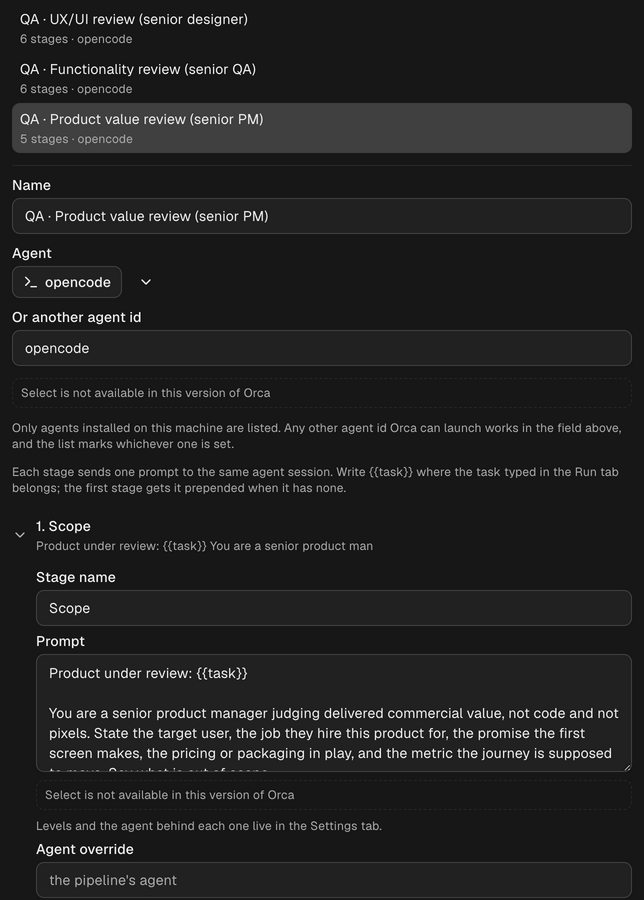
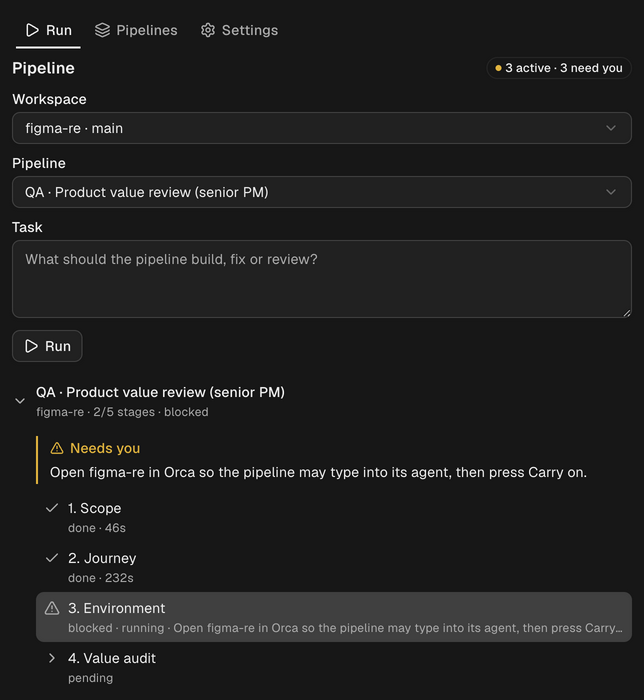
0.11.3: the pipeline editor shows the selected pipeline
Opening the Pipelines tab now draws the selected pipeline's stages instead of a
bare list, and Cancel means 'list only'. That also gives plugin check a scenario
that renders the editor, so a refused control (the empty Select value that broke
0.11.1) is reported in CI instead of the sidebar.

Changed region(s): [[0.0, 0.42, 0.9938, 0.99], [0.0, 0.0, 0.9938, 0.39], [0.9317, 0.27, 0.9627, 0.3]]

diff --git a/src/panel.tsx b/src/panel.tsx
@@ -66,7 +66,7 @@ const levels = atom<Record<Reasoning, { agent: string; model: string }>>({
 })
 const task = atom('task', '')
 const tab = atom('tab', 'run', { persist: 'plugin' })
-const editing = atom<Pipeline | null>(null)
+const editing = atom<Pipeline | null | 'closed'>(null)
 const notice = atom<string | null>(null)
 const busy = atom(false)
 /** The Settings tab's fields, as strings until saved. */
@@ -234,7 +234,7 @@ function newPipeline(): void {
 
 function editStage(index: number, patch: Partial<Stage>): void {
   const draft = read(editing)
-  if (!draft) return
+  if (!draft || draft === 'closed') return
   set(editing, {
     ...draft,
     stages: draft.stages.map((stage, at) => (at === index ? { ...stage, ...patch } : stage))
@@ -243,7 +243,7 @@ function editStage(index: number, patch: Partial<Stage>): void {
 
 function addStage(): void {
   const draft = read(editing)
-  if (!draft) return
+  if (!draft || draft === 'closed') return
   const at = draft.stages.length + 1
   set(editing, {
     ...draft,
@@ -256,14 +256,14 @@ function addStage(): void {
 
 function removeStage(index: number): void {
   const draft = read(editing)
-  if (!draft) return
+  if (!draft || draft === 'closed') return
   set(editing, { ...draft, stages: draft.stages.filter((_, at) => at !== index) })
 }
 
 function savePipeline(): void {
   void attempt(async () => {
     const draft = read(editing)
-    if (!draft) return
+    if (!draft || draft === 'closed') return
     const saved = await plugin.request('pipelines.save', { pipeline: draft })
     set(pipelines, saved.pipelines)
     set(selectedPipeline, draft.id)
@@ -274,7 +274,7 @@ function savePipeline(): void {
 function removePipeline(): void {
   void attempt(async () => {
     const draft = read(editing)
-    if (!draft) return
+    if (!draft || draft === 'closed') return
     const saved = await plugin.request('pipelines.remove', { id: draft.id })
     set(pipelines, saved.pipelines)
     if (read(selectedPipeline) === draft.id) set(selectedPipeline, saved.pipelines[0]?.id ?? '')
@@ -576,7 +576,10 @@ function SettingsTab() {
 
 function PipelinesTab() {
   const list = read(pipelines)
-  const draft = read(editing)
+  const open = read(editing)
+  // Nothing chosen yet: show the selected pipeline rather than an empty list. 'closed' means the
+  // person cancelled and wants the list only.
+  const draft = open === 'closed' ? null : (open ?? list.find((e) => e.id === read(selectedPipeline)) ?? null)
 
   return (
     <Stack gap="md">
@@ -777,7 +780,7 @@ function PipelinesTab() {
             <Button icon="check" onPress={savePipeline}>
               Save
             </Button>
-            <Button variant="ghost" onPress={() => set(editing, null)}>
+            <Button variant="ghost" onPress={() => set(editing, 'closed')}>
               Cancel
             </Button>
             <Button variant="ghost" tone="danger" icon="delete" onPress={removePipeline}>
